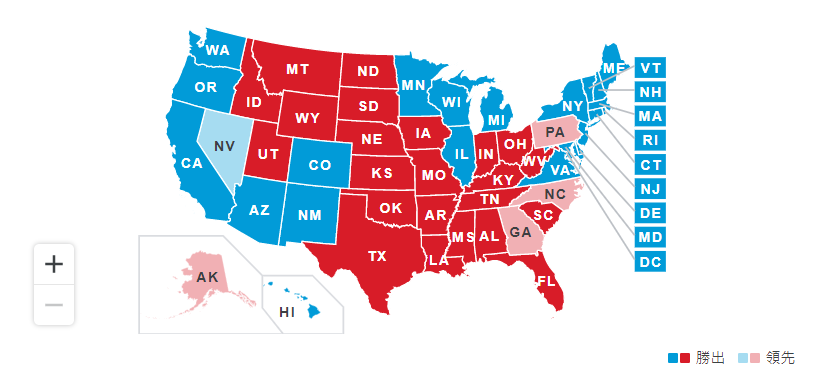
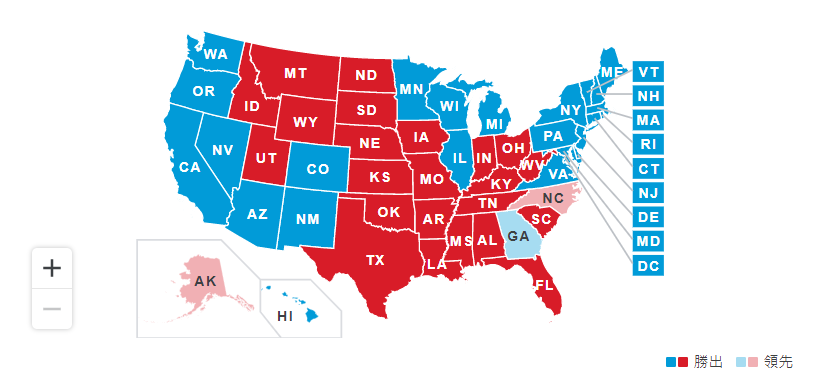
增加表格

Changed region(s): [[0.1538, 0.0588, 0.8303, 0.9118], [0.7995, 0.9412, 0.984, 1.0], [0.0308, 0.6765, 0.0923, 0.8529]]

diff --git a/homework/hw04.html b/homework/hw04.html
@@ -50,6 +50,11 @@
             z-index:9999;
             height: 50px;
         }
+        .o{
+            color: white;
+            font-size: 15px;
+            width: 10%;
+        }
     </style>
 </head>
 <body style="background-color: black;margin: 0px;">
@@ -75,16 +80,16 @@
         </div>
     </center>
      <div style="width: 300px;background-color: red;margin:0px auto;text-align: right;height: 10px;">
-        <div style="width: 51%;background-color: blue; text-align: left;height: 10px;"></div>
+        <div style="width: 51.7%;background-color: blue; text-align: left;height: 10px;"></div>
     </div>
     <center>
         <br>
         <div style="padding-left: 10px;padding-top: 20px;"><b style="font-family:微軟正黑體;font-size: 35px;color: white;">關於大選</b></div>
     </center>
     <div style="padding-left: 5%;padding-right: 5%;width: 90%;height: 374px;padding-top: 15px;">
-        <div style="height: 374px;width: 813px;"><a href="https://www.ap.org/media-center/understanding-the-election"><img src="result.png"></a></div>
+        <div style="height: 374px;width: 813px;"><a href="https://www.ap.org/media-center/understanding-the-election"><img src="result.png""></a></div>
         <div style="position: relative;left: 850px;bottom: 400px;width: 35%;padding: 0px;">
-            <p style="color: white;word-break: break-all;font-size: 25px;">美國總統大選於東岸時間3日20時（台灣時間4日上午）開始計票，兩黨選情皆在50%上下徘徊，邁向270選舉人團票勝選大關。由於大量郵寄投票影響，導致部份州計票相較以往耗時。</p>
+            <p style="color: white;word-break: break-all;font-size: 25px;">美國總統大選於東岸時間3日20時（台灣時間4日上午）開始計票，兩黨選情皆在50%上下徘徊，邁向270選舉人團票勝選大關。由於大量郵寄投票影響，導致部份州計票相較以往耗時。最終結果於美國當地時間周六（11月7日），在經過數日緊張的票數清點後，民主黨候選人拜登勝出。</p>
         </div>
     </div>
     <div style="padding-left: 5%;padding-right: 5%;width: 90%;position: relative;height: 415px;">
@@ -122,20 +127,64 @@
         </div>
     </div>
     <center>
+        <div><b style="color: white;font-size: 35px;">選舉結果</b></div>
+    </center>
+    <div style="width: 90%;padding-left: 5%;padding-right: 5%;padding-top: 10px;padding-bottom: 10px;">
+        <table border="1" align="center" cellpadding="10" cellspacing="0">
+            <tr style="background-color: lightslategrey;">
+                <td class="o">總統候選人</td>
+                <td class="o">政黨</td>
+                <td class="o">本州</td>
+                <td class="o">選舉人票(目前)</td>
+                <td class="o">得票率</td>
+            </tr>
+            <tr>
+                <td class="o">Joe Biden</td>
+                <td class="o">民主黨</td>
+                <td class="o">德拉瓦州</td>
+                <td class="o">290票</td>
+                <td class="o">50.7%</td>
+            </tr>
+            <tr>
+                <td class="o">Donald Trump</td>
+                <td class="o">共和黨</td>
+                <td class="o">佛羅里達州</td>
+                <td class="o">214票</td>
+                <td class="o">47.7%</td>
+            </tr>
+        </table>
+    </div>
+    <center>
         <div>
             <b style="font-size: 35px;color: white;">資料來源</b>
         </div>
     </center>
-    <div style="padding-left: 5%;padding-right: 5%;width: 90%;position: relative;padding-top: 15px;">
-        <div style="width: 50%;word-break: break-all;">
-            <p style="color: white;font-size: 20px;margin: 0px;">新聞來源：</p>
-            <a style="color: white;" href="https://www.chinatimes.com/amp/realtimenews/20201102004527-261502">https://www.chinatimes.com/amp/realtimenews/20201102004527-261502</a><br>
-            <a style="color: white;" href="https://newtalk.tw/news/view/2020-10-22/483062">https://newtalk.tw/news/view/2020-10-22/483062</a><br>
-            <a style="color: white;" href="https://www.moneydj.com/KMDJ/News/NewsViewer.aspx?a=4b1fb202-b95f-43b7-8c13-31a626643c64">https://www.moneydj.com/KMDJ/News/NewsViewer.aspx?a=4b1fb202-b95f-43b7-8c13-31a626643c64</a><br>
-            <a style="color: white;" href="https://tw.appledaily.com/international/20201102/7UW7FDG3RFCY7H7OSAG52WH6M4/">https://tw.appledaily.com/international/20201102/7UW7FDG3RFCY7H7OSAG52WH6M4/</a>
-        </div>
-        <div style="width: 50%;position: relative;bottom: 100px;left: 50%;">
-            <p style="color: white;font-size: 20px;margin: 0px;">圖片來源：網路</p>
+    <div style="padding-left: 5%;padding-right: 5%;width: 90%;position: relative;padding-top: 15px;padding-bottom: 10px;">
+        <div style="word-break: break-all;">
+            <table>
+                <tr>
+                    <td style="width: 50%;">
+                        <p style="color: white;font-size: 20px;margin: 0px;">新聞連結：</p>
+                    </td>
+                    <td style="width: 50%;">
+                        <p style="color: white;font-size: 20px;margin: 0px;padding: 0px;">圖片來源：網路</p>
+                    </td>
+                </tr>
+                <tr>
+                    <td>
+                        <a style="color: white;" href="https://www.chinatimes.com/amp/realtimenews/20201102004527-261502">https://www.chinatimes.com/amp/realtimenews/20201102004527-261502</a><br>
+                        <a style="color: white;" href="https://newtalk.tw/news/view/2020-10-22/483062">https://newtalk.tw/news/view/2020-10-22/483062</a><br>
+                        <a style="color: white;" href="https://www.moneydj.com/KMDJ/News/NewsViewer.aspx?a=4b1fb202-b95f-43b7-8c13-31a626643c64">https://www.moneydj.com/KMDJ/News/NewsViewer.aspx?a=4b1fb202-b95f-43b7-8c13-31a626643c64</a><br>
+                        <a style="color: white;" href="https://tw.appledaily.com/international/20201102/7UW7FDG3RFCY7H7OSAG52WH6M4/">https://tw.appledaily.com/international/20201102/7UW7FDG3RFCY7H7OSAG52WH6M4/</a>
+                    </td>
+                </tr>
+                <tr>
+                    <td>
+                        <p style="color: white;font-size: 20px;margin: 0px;">其他資訊連結：</p>
+                        <a style="color: white;" href="https://zh.wikipedia.org/wiki/2020%E5%B9%B4%E7%BE%8E%E5%9C%8B%E7%B8%BD%E7%B5%B1%E9%81%B8%E8%88%89#%E6%B0%91%E6%84%8F%E8%AA%BF%E6%9F%A5">https://zh.wikipedia.org/wiki/2020%E5%B9%B4%E7%BE%8E%E5%9C%8B%E7%B8%BD%E7%B5%B1%E9%81%B8%E8%88%89#%E6%B0%91%E6%84%8F%E8%AA%BF%E6%9F%A5</a>
+                    </td>
+                </tr>
+            </table>
         </div>
     </div>
 </body>
